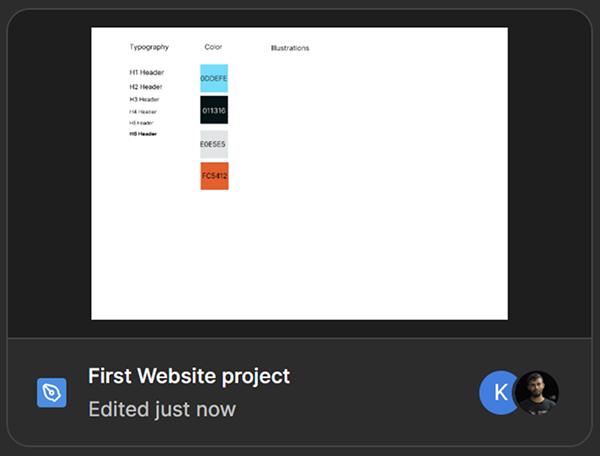
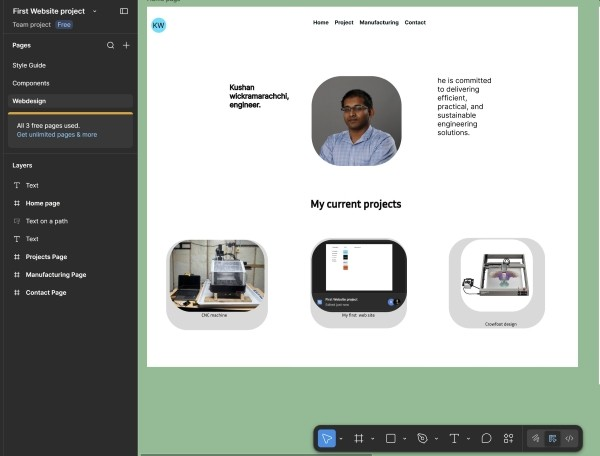
fixed the format and made it ready to be uploaded

diff --git a/projectpage.html b/projectpage.html
@@ -30,16 +30,19 @@
   <!-- Project 1 -->
   <section class="project-card">
     <div class="project-left">
-      <p class="date">2026 present</p>
-      <p class="skill-label">Skill Used:</p>
+      <p class="date">2025 present</p>
+      
     </div>
 
     <div class="project-center">
       <h2>CNC Project</h2>
       <p>
-        From the begining to making the first part on the machine took me arround 4 months. I ordered this machine from sharifDMC website. This was one of the first desktop machines that 
-        flood coolant.
+        There are a lot of engineers with CNC machines and I was inspired to buy this machine. SharifDMC was of the first desktop machines that 
+        have flood coolant and the moment I saw the machine I decided to buy the kit. From the begining to making the first part on the machine took me around 4 months.   
       </p>
+     <div class ="skills-row">
+
+   
 
       <div class="skills">
         <button>Handtools</button>
@@ -51,6 +54,7 @@
         <button onclick="openProjectModal('cnc')">Learn More</button>
 
       </div>
+    </div>
     </div>
 
     <div class="project-right">
@@ -90,20 +94,48 @@
     </div>
   </div>
   
+<!-- Project 3 -->
+<section class="project-card">
+  <div class="project-left">
+    <p class="date">2025 present</p>
+    
+  </div>
 
+  <div class="project-center">
+    <h2>Crowfoot Design</h2>
+    <p>
+      This project was contracted to me by a co-worker. He had trouble getting access into tight spaces using larger 3/8" drive crowfoots and he could not find a suitable 1/4" drive.
+      I have made two prototypes out of Aluminum. Next step is to machine the parts out of Steel. 
+    </p>
+
+    <div class="skills">
+      <button>Solidworks</button>
+      <button>SolidCam</button>
+      <button>Feed/Speed</button>
+
+      <br>
+      <br>
+      <button onclick="openProjectModal('crowfoot')">Learn More</button>
+    </div>
+  </div>
+
+  <div class="project-right">
+    <img src="images/Project Image 3.JPG" alt="Crowfoot Design">
+  </div>
+</section>
 
   <!-- Project 2 -->
   <section class="project-card">
     <div class="project-left">
-      <p class="date">2025-2026<br>Jan - March</p>
-      <p class="skill-label">Skill Used:</p>
+      <p class="date">2025-2026<br>Jan - May</p>
+      
     </div>
 
     <div class="project-center">
       <h2>Personal Website</h2>
       <p>
-        I wanted to learn some web development and wanted a way to show case some of the projects so I build this website using my own knoweldge, ChatGPT and with my friend Manuka. The full 
-        code for this can be found on gitHub and in the future I will be moving this to a more robust website host.
+        I wanted to learn some web development and wanted a way to show case some of the projects so I build this website using Figma, ChatGPT and with my friend Manuka. The full 
+        code for this can be found on gitHub. 
       </p>
 
       <div class="skills">
@@ -119,35 +151,7 @@
     </div>
   </section>
 
-  <!-- Project 3 -->
-  <section class="project-card">
-    <div class="project-left">
-      <p class="date">2023-2024<br>Jan - Jan</p>
-      <p class="skill-label">Skill Used:</p>
-    </div>
-
-    <div class="project-center">
-      <h2>Crowfoot Design</h2>
-      <p>
-        This project was contracted to me by a co worker. He had trouble getting access into tight spaces using larger 3/8" drive crowfoots and he could not find a suitable 1/4".
-        So I decided to make the shape out of Aluminum and then machine it out of steel. 
-      </p>
-
-      <div class="skills">
-        <button>Solidworks</button>
-        <button>SolidCam</button>
-        <button>Feed/Speep</button>
-
-        <br>
-        <br>
-        <button onclick="openProjectModal('crowfoot')">Learn More</button>
-      </div>
-    </div>
-
-    <div class="project-right">
-      <img src="images/Project Image 3.JPG" alt="Crowfoot Design">
-    </div>
-  </section>
+  
   </div>
 
 <script src="js/projectpage.js"></script>

diff --git a/js/projectpage.js b/js/projectpage.js
@@ -14,7 +14,10 @@ const projects = {
     ],
 
     description:
-      " \n The project was broken down into 4 steps. Mechanical assembly, electrical assembly, software setup and tramming the machine. The manual was great for first 3 steps. There was little to now instructions on tramming the machine. After facing the bed for the first time I descovered there was 1/8 inch difference on the x axis. I used various shims to and dial gauges to fix this error. at the End I was able to get the flatness of the bed relative to spindle to +/- .005 inch ",
+      ` \n The project was broken down into 4 steps. Mechanical assembly, electrical assembly, software setup and tramming the machine. \n\n The manual was great for first 3 steps. Majority of the mechanical setup was done using allankeys, wrenches and screwdriver set.The electrical requird a multimeter and a soldering iron.
+      The hard part was tramming the machine after the initial setup. \n \n There was little to no instructions on tramming the machine and I realized there was few more precision measuring tools you have to purchase to ensure the machine is trammed correctly. 
+      \n\n After setting up the machine the first step involved facing the bed. After the first time I descovered there was 1/8 inch difference on the x axis. I used various shims to and dial gauges to fix this error. I have so far machined propeller knobs, Trim Knob for a twin otter overhead console.In the future I will attempt to machine
+      parts out of Steel. Which will be part of my crowfoot project`,
   
 
     skills: ["CNC", "Manufacturing", "Toolpaths"]
@@ -45,7 +48,7 @@ const projects = {
     ],
 
     description:
-      " \n This is a work in progress the goal was to creae crowfoots that can use a 1/4 inch drive. Initially I wanted to make it out of aluminum then move on to steel. I want to make one out if steel in the this month. You can see pictures of my first attempt at making a part and my second attempt",
+      " \n This is a work in progress, the goal was to create crowfoots that can use a 1/4 inch drive. So far I have made 2 crowfoots out of Aluminum. You can see pictures of my attempts on the slide show. I will add the parts that are made out of steel soon.",
 
     skills: ["SolidWorks", "Mechanical Design"]
   }

diff --git a/index.html b/index.html
@@ -50,11 +50,24 @@
   <section class="hero">
     
     <div class="hero-left">
-      <h1 class="fade-up">
-        Kushan <br>
-        Wickramarachchi<br>
-        
-      </h1>
+      <h3 class="fade-up">
+        Hi There, <br><br>
+        Thanks for checking out my website.    
+        <br>I build this website to understand 
+        web development and show case 
+        the projects I have completed. I am 
+        continuosuly making improvments to 
+        this site and adding new features as 
+        I expand my skill set. <br><br>
+        Regards, <br><br>
+        Kushan Wickramarachchi
+      </h3>
+      <h3>
+        <p>
+          
+          
+        </p>
+      </h3>
     </div>
 
     <div class="hero-center">
@@ -62,14 +75,10 @@
       <img src="images/Portfolio Picture.jpg" alt="Kushan">
     </div>
 
-    <div class="hero-right">
-      <p>
-        Hello, <br>
-        this website was built as a way for me to understand web development <br>
-        and show some of the projects I have done <br>
-        
-      </p>
+    <div class="profile-right">
+      
     </div>
+
 
   </section>
 </div>
